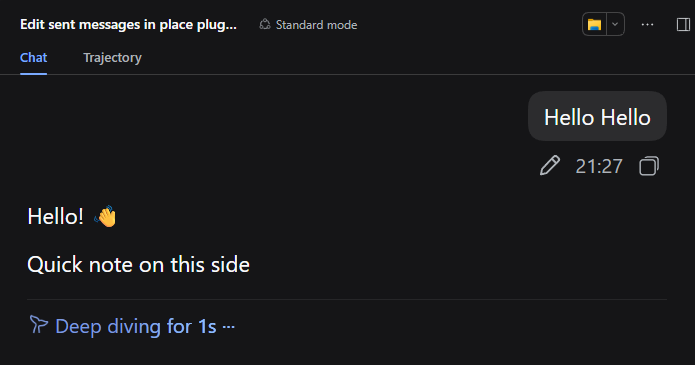
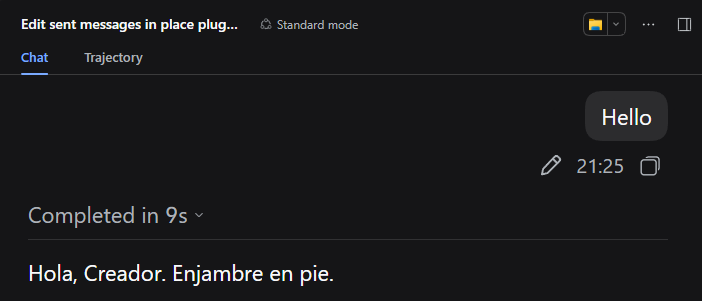
Show the whole gesture in three frames
Message with its pencil, then the bubble as a text box in its place, then the
corrected text living in a new conversation while the original stays.

The three are the screenshots supplied for this, stripped again after copying for
the same reason as before: the originals arrive read-only and carrying a colour
profile and a physical-resolution chunk.

Verified by size and by dimensions, one file at a time: 702x301, 699x353, 695x365,
each with IHDR, IDAT and IEND and nothing else.

diff --git a/README.md b/README.md
@@ -5,13 +5,15 @@ conversation stays exactly as it was.
 
 A plugin for [DeepSeek Harness](https://github.com/deepseek-ai/deepseek-harness).
 
-![A message of your own, with its pencil next to the clock and the copy button](docs/message.png)
+![Your message, with its pencil next to the clock and the copy button](docs/message.png)
 
-![The same message turned into a text box in its own place, with Cancel and Update below](docs/editing.png)
+![The bubble becomes a text box in its own place, with Cancel and Update below](docs/editing.png)
+
+![The corrected text, sent again in a new conversation while the original stays](docs/rewritten.png)
 
 *The interface in those screenshots is in Spanish because the machine that took them
 is set to Spanish. The same build shows English to an English reader, and the
-repository itself is English. Both files carry no metadata at all: only the header,
+repository itself is English. None of the three carries metadata: only the header,
 the pixels and the end marker survive, so nothing about the machine that took them
 travels with them (`node tools/limpia-imagenes.mjs --list docs/*.png` shows it).*
 
